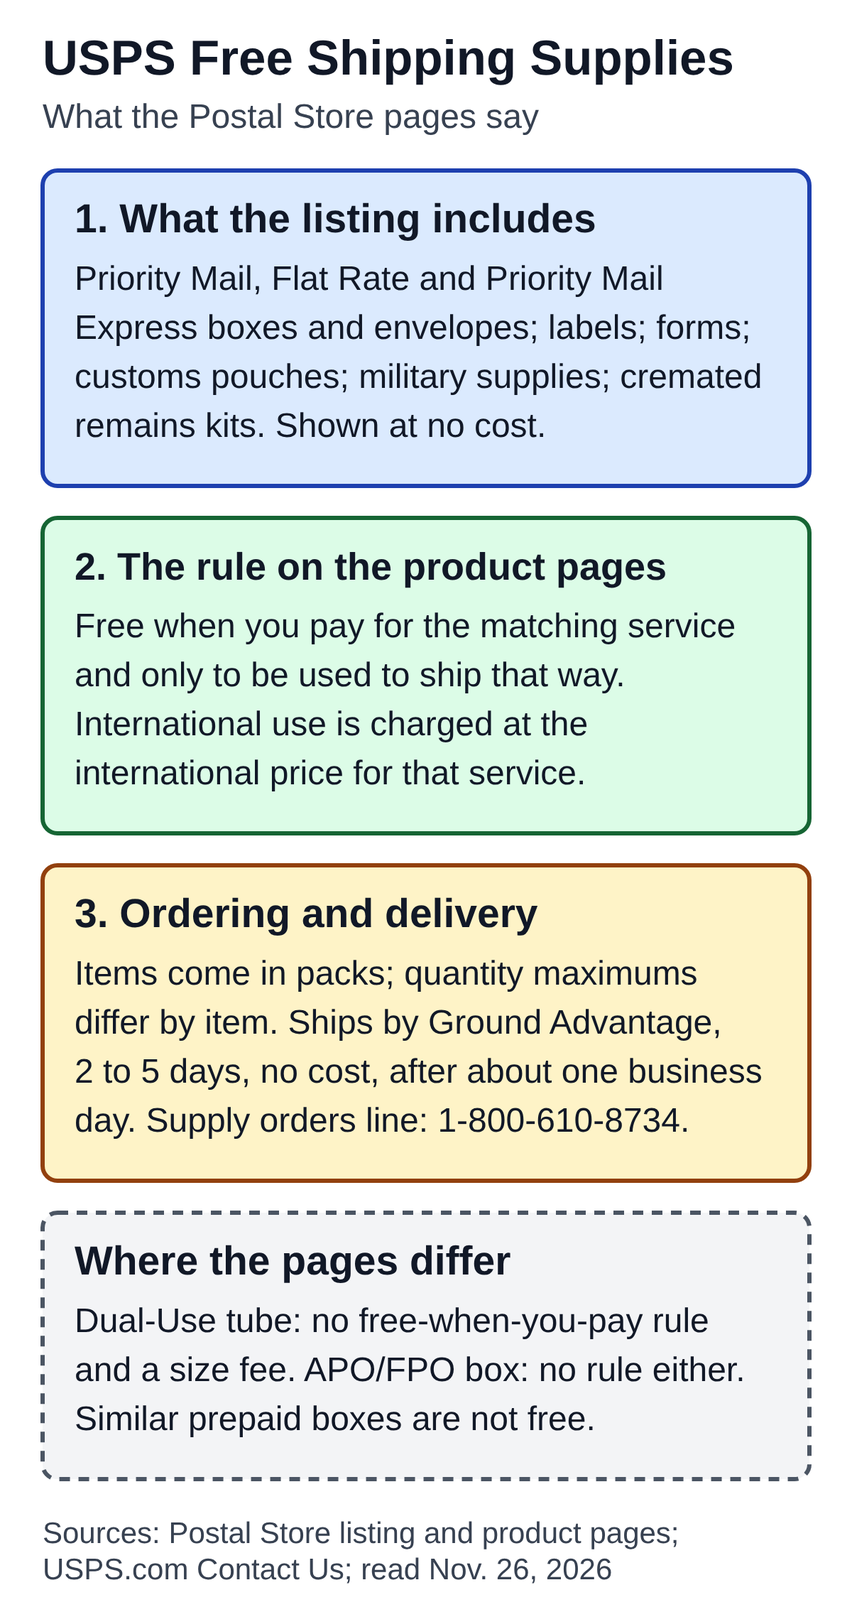
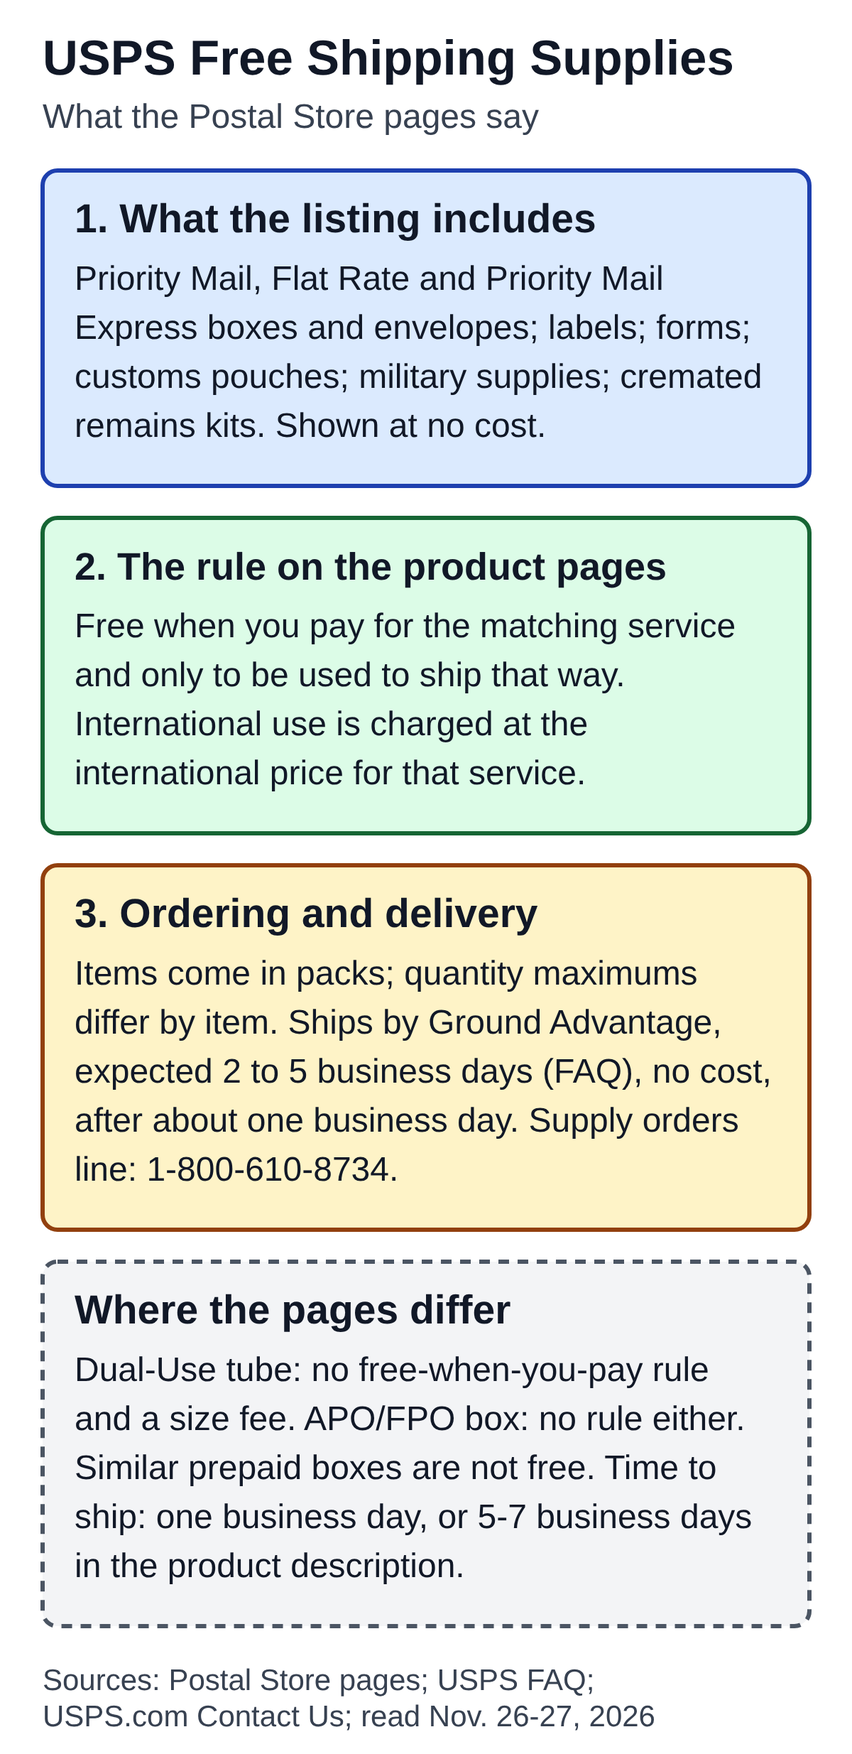
Free Boxes: business-days wording, FAQ source, per-product source links, time-to-ship difference (Gate 2 FIX)
Claude-Session: https://claude.ai/code/session_01BXtGEA3Qzg6u2ejRb8jbFU

diff --git a/content/drafts/usps-free-shipping-supplies-how-it-works.md b/content/drafts/usps-free-shipping-supplies-how-it-works.md
@@ -8,16 +8,16 @@ status: draft
 date: 2026-11-26
 internal_link_candidates: usps-package-pickup-how-it-works, usps-certified-mail-how-it-works, usps-registered-mail-how-it-works (all published or scheduled before this slot) and usps-customer-service-how-to-contact (third post, scheduled for 2026-11-28 9 AM KST, before this one); each appears once in the body with link text matching the title.
 image: assets/optimized/usps-free-shipping-supplies-how-it-works.png
-image_alt: "Diagram of what USPS Postal Store pages say about free shipping supplies. What is listed: Priority Mail, Priority Mail Flat Rate and Priority Mail Express boxes and envelopes, labels, forms, customs pouches, military supplies and cremated remains kits, shown at no cost. The rule: the packaging is free when you pay for the matching service and may only be used to ship that way; international use is charged at the international price. Ordering: items come in packs, quantity maximums differ by item, orders ship by Ground Advantage in 2 to 5 days at no cost after about one business day, and a separate phone line takes supply orders. The pages differ on the Dual-Use tube and the APO/FPO box, and similar prepaid boxes are not free."
+image_alt: "Diagram of what USPS Postal Store pages say about free shipping supplies. What is listed: Priority Mail, Priority Mail Flat Rate and Priority Mail Express boxes and envelopes, labels, forms, customs pouches, military supplies and cremated remains kits, shown at no cost. The rule: the packaging is free when you pay for the matching service and may only be used to ship that way; international use is charged at the international price. Ordering: items come in packs, quantity maximums differ by item, orders ship by Ground Advantage with an expected delivery of 2 to 5 business days at no cost, after about one business day, and a separate phone line takes supply orders. The pages differ on the Dual-Use tube, the APO/FPO box and shipping time, and similar prepaid boxes are not free."
 ---
 
 # USPS Free Boxes and Envelopes: What You Can Order and the Rules That Apply
 
 **The USPS Postal Store lists free Priority Mail and Priority Mail Express boxes and envelopes, plus free labels and forms, and its product pages say the packaging is free when you pay for the matching service and may only be used to ship that way.** The pages also describe how the supplies are shipped to you and give a separate phone line for ordering them. This article goes through what the pages list, the rules they state, and where they word things differently.
 
-This article uses the Postal Store "Free Shipping Supplies" listing (47 results when read, no update date shown), nine Postal Store product pages and the USPS.com "Contact Us" page (no update date shown), all read on November 26, 2026. Product pages show a price field and some state shipping or postage prices; this article gives no amounts. The product pages are individual store entries, not a policy page, so wording can change as items are added or retired.
+This article uses the Postal Store "Free Shipping Supplies" listing (47 results when read, no update date shown), nine Postal Store product pages, the USPS.com "Contact Us" page (no update date shown) and the USPS FAQ "Ordering Free Shipping Supplies" (Article 000007007, dated September 29, 2026), all read on November 26 and 27, 2026. Product pages show a price field and some state shipping or postage prices; this article gives no amounts. The product pages are individual store entries, not a policy page, so wording can change as items are added or retired.
 
-![Diagram of what USPS Postal Store pages say about free shipping supplies. What is listed: Priority Mail, Priority Mail Flat Rate and Priority Mail Express boxes and envelopes, labels, forms, customs pouches, military supplies and cremated remains kits, shown at no cost. The rule: the packaging is free when you pay for the matching service and may only be used to ship that way; international use is charged at the international price. Ordering: items come in packs, quantity maximums differ by item, orders ship by Ground Advantage in 2 to 5 days at no cost after about one business day, and a separate phone line takes supply orders. The pages differ on the Dual-Use tube and the APO/FPO box, and similar prepaid boxes are not free.](assets/optimized/usps-free-shipping-supplies-how-it-works.png)
+![Diagram of what USPS Postal Store pages say about free shipping supplies. What is listed: Priority Mail, Priority Mail Flat Rate and Priority Mail Express boxes and envelopes, labels, forms, customs pouches, military supplies and cremated remains kits, shown at no cost. The rule: the packaging is free when you pay for the matching service and may only be used to ship that way; international use is charged at the international price. Ordering: items come in packs, quantity maximums differ by item, orders ship by Ground Advantage with an expected delivery of 2 to 5 business days at no cost, after about one business day, and a separate phone line takes supply orders. The pages differ on the Dual-Use tube, the APO/FPO box and shipping time, and similar prepaid boxes are not free.](assets/optimized/usps-free-shipping-supplies-how-it-works.png)
 
 ## What the listing includes
 
@@ -41,12 +41,13 @@ The forms and labels are not packaging, and the pages read for them do not repea
 
 Each product page has a quantity field that shows a minimum and a maximum, and the maximums differ by item and by format. The pages do not give one overall limit.
 
-The Shipping & Returns text on the product pages says that in-stock orders ship with USPS Tracking, that you should allow one business day from order receipt for them to ship, and that free shipping is by USPS Ground Advantage arriving within 2 to 5 days depending on distance, at no cost to the customer. An expedited option by Priority Mail, arriving within 1 to 3 days, is offered for a fee whose amount this article does not give. The pages add that orders may ship from different distribution centers and may arrive separately, that every order carries a "Carrier - Leave if No Response" endorsement so the carrier can leave it if you are not home, and that you can see order status and tracking in your USPS.com account under Activity History. The Postal Store does not accept orders for shipment outside the United States but ships to APO, FPO and DPO addresses and U.S. territories.
+The Shipping & Returns text on the product pages says that in-stock orders ship with USPS Tracking, that you should allow one business day from order receipt for them to ship, and that free shipping is by USPS Ground Advantage, with delivery in 2 to 5 days depending on distance, at no cost to the customer. The USPS FAQ "Ordering Free Shipping Supplies" gives the same one-business-day shipping step and words the delivery as an expected 2 to 5 business days, so this article uses business days for that figure. Both pages describe an expedited option by Priority Mail, with an expected delivery of 1 to 3 business days according to the FAQ, for a fee whose amount this article does not give. The product description above those tabs adds a different line, which the "Where the pages differ" section covers. The pages add that orders may ship from different distribution centers and may arrive separately, that every order carries a "Carrier - Leave if No Response" endorsement so the carrier can leave it if you are not home, and that you can see order status and tracking in your USPS.com account under Activity History. The Postal Store does not accept orders for shipment outside the United States but ships to APO, FPO and DPO addresses and U.S. territories.
 
 The Contact Us page lists a phone line, 1-800-610-8734, "to order free shipping boxes, envelopes, and postal forms, or to report a problem with your shipping supply order." It gives Monday to Friday 7 AM to 11 PM Eastern Time and Saturday 7 AM to 6 PM Eastern Time. Our article [USPS Customer Service: How to Phone, Email or File a Complaint](https://statesideexplained.com/usps-customer-service-how-to-contact/) covers the other lines.
 
 ## Where the pages differ
 
+- **Time to ship.** The Shipping & Returns text and the FAQ say in-stock orders ship within one business day of the order. The product description says to allow 5 to 7 business days for in-stock items to be shipped, and also says Ground Advantage supplies ship within 2 to 5 business days. The FAQ gives an expected delivery of 2 to 5 business days after that shipping step, while the Shipping & Returns text says 2 to 5 days depending on distance. The pages do not reconcile these.
 - **The Dual-Use tube.** The Dual-Use Priority Mail / Priority Mail Express Small Tube Box page says the box can be used for either service. It does not carry the "how it works" sentence that ties the other boxes to one service, and it says the packaging is subject to the nonstandard fee because of its size. The page does not say which service's payment makes it free.
 - **The APO/FPO box.** The Priority Mail Flat Rate APO/FPO Box page also lacks the "free when you pay" sentence. It describes military shipping at domestic rates and mentions a discounted price for that box, which this article does not give.
 - **Similar boxes that are not free.** The comparison table on the Flat Rate Medium Box page lists prepaid versions of similar boxes with a box price, so a similar name does not mean the box is free.
@@ -57,8 +58,17 @@ They do not say whether you need a USPS.com account to place an order, whether t
 
 ## Sources
 
-All pages were read on November 26, 2026.
+All pages were read on November 26 and 27, 2026.
 
+- USPS, "Ordering Free Shipping Supplies," Article 000007007, dated September 29, 2026. https://faq.usps.com/s/article/Ordering-Free-Shipping-Supplies
 - USPS Postal Store, "Free Shipping Supplies" listing (no update date shown). https://store.usps.com/store/results/free-shipping-supplies/shipping-supplies/_/N-alnx4jZ7d0v8v
-- USPS Postal Store product pages: Priority Mail Flat Rate Medium Box, Priority Mail Poly Envelopes, Priority Mail Shoe Box, Cremated Remains Kit 1, Large Customs Declaration Form Pouch, Registered Mail Labels, Certified Mail Receipt Forms, Priority Mail Flat Rate APO/FPO Box and Dual-Use Priority Mail / Priority Mail Express Small Tube Box (no update dates shown). https://store.usps.com/store/results/free-shipping-supplies/shipping-supplies/_/N-alnx4jZ7d0v8v
+- Postal Store product page, Priority Mail Flat Rate Medium Box (no update date shown). https://store.usps.com/store/product/priority-mail-flat-rate-medium-box-P_O_FRB1
+- Postal Store product page, Priority Mail Poly Envelopes. https://store.usps.com/store/product/priority-mail-poly-envelopes-P_EP_14
+- Postal Store product page, Priority Mail Shoe Box. https://store.usps.com/store/product/priority-mail-shoe-box-P_0_SHOEBOX
+- Postal Store product page, Cremated Remains Kit 1. https://store.usps.com/store/product/cremated-remains-kit-1-P_BOX_CREKIT1
+- Postal Store product page, Large Customs Declaration Form Pouch. https://store.usps.com/store/product/large-customs-declaration-form-pouch-P_FORM_2976_E
+- Postal Store product page, Registered Mail Labels. https://store.usps.com/store/product/registered-mail-labels-P_LABEL200N
+- Postal Store product page, Certified Mail Receipt Forms. https://store.usps.com/store/product/certified-mail-receipt-forms-P_FORM_3800
+- Postal Store product page, Priority Mail Flat Rate APO/FPO Box. https://store.usps.com/store/product/priority-mail-flat-rate-apofpo-box-P_MILI_FRB
+- Postal Store product page, Dual-Use Priority Mail / Priority Mail Express Small Tube Box. https://store.usps.com/store/product/dual-use-priority-mailpriority-mail-express-small-tube-box-P_O_1098S
 - USPS, "Contact Us" (no update date shown). https://www.usps.com/help/contact-us.htm

diff --git a/docs/content-backlog.md b/docs/content-backlog.md
@@ -83,7 +83,7 @@ Pilot 12 plan: 12 published + 0 ready + 0 draft + 0 briefs = 12 slots, 4 per lan
 | 47 | `usps-change-of-address-how-it-works` | USPS Change of Address: How to File, Who Can File and What Happens Next | `usps change of address` | **scheduled 2026-11-27 09:00 KST** (WP post 184, media 183, status `future` re-read after saving; Gate 2 PASS after two FIX rounds (`3cf9bce`, `5ec4d21`); sources re-read 2026-11-26 with no change; editor 0 invalid blocks; 375 and 320 px checked; file moved to `content/ready/`; live QA after publication) | post-pilot (not counted) | Lane: postal service and stamps. First of four posts for 2026-11-27 and 2026-11-28 (slot 2026-11-27 9 AM KST). Sources: FAQ 000005313 (Oct 15, 2026), USPS.com Standard Forward Mail page (no date). Demand: relative Trends index only (highest of the surveyed USPS phrases), search volume not checked; see `docs/next-candidates-2026-11-26.md`. No prices or fees (both pages state the identity verification fee; not used). Two timing details shown without calling them conflicts (after Gate 2 round 1 FIX): the 7-10 days (after approval vs after the start date) and temporary forwarding periods. Three internal links (forwarding, Informed Delivery, Hold Mail). Re-read both sources right before publishing. |
 | 48 | `usps-money-order-how-it-works` | USPS Money Orders: How to Buy, Cash and Replace One | `usps money order` | **scheduled 2026-11-26** (Gate 1 done by Claude: FAQ 46 of 48 (2 phrase typos of mine), USPS.com page 31 of 31 and DMM 509.3 24 of 24 phrase checks, 3 image checks; Gate 2 round 1 = FIX (payee rules by DMM clause; no-receipt wording), fixed 2026-11-26, changed parts PASS; pre-publication re-read 2026-11-26 corrected the ID wording (FAQ: acceptable primary form of identification; USPS.com: primary photo ID) and "Form 6387", Gate 2 on that change PASS (`0bdda77`); built in WordPress as post 187 (media 186) and **scheduled for 2026-11-27 3 PM KST**, moved to ready; live QA due about 3:20 PM KST) | post-pilot (not counted) | Lane: postal service and stamps. Second of four posts for 2026-11-27 and 2026-11-28 (slot 2026-11-27 3 PM KST). Sources: FAQ 000006987 (Jun 10, 2026), USPS.com Sending Money Orders page (no date), DMM 509 section 3.0 (no date). **User instruction 2026-11-26: leave out the single-order limit amount**; the article also leaves out fees and every other amount. Demand: relative Trends index only (about 0.13 x the change-of-address phrase), search volume not checked. Differences shown: traveler's checks; one payee (DMM 3.2.4) or several (3.3.5); refund and replacement timing; where to buy. One internal link (claims). Re-read all three sources right before publishing. |
 | 49 | `usps-customer-service-how-to-contact` | USPS Customer Service: How to Phone, Email or File a Complaint | `usps customer service` | **draft 2026-11-26** (Gate 1 done by Claude: USPS.com Contact Us 34 of 34, Email Us 18 of 18, USAGov 22 of 23 (1 phrase typo of mine) phrase checks, 3 image checks; Gate 2 round 1 = FIX (the "Where the pages differ" section presented routes as source conflicts), fixed 2026-11-26, waiting for Gate 2 on the changed parts; not moved to ready; nothing built in WordPress) | post-pilot (not counted) | Lane: postal service and stamps. **Replaces USPS Insurance** in the third slot (2026-11-28 9 AM KST): the Insurance pages are mostly amounts and overlap the claims and Priority Mail vs Ground Advantage posts; reported to the user on 2026-11-26. Sources: USPS.com Contact Us (no date), USPS Email Us (no date), USAGov complaint page (updated Sep 4, 2026). Demand: relative Trends index only (about 0.62 x the change-of-address phrase), search volume not checked. No prices or fees; phone numbers and hours dated. Section "Which route fits which problem" (routes grouped by problem, no claimed source conflicts). Two internal links (tracking status, missing mail search). Re-read all three sources right before publishing (numbers and hours can change). |
-| 50 | `usps-free-shipping-supplies-how-it-works` | USPS Free Boxes and Envelopes: What You Can Order and the Rules That Apply | `usps free boxes` | **draft 2026-11-26** (Gate 1 done by Claude: Postal Store listing 29 of 29, nine product pages 54 of 54, Contact Us supply line 4 of 4 phrase checks, 3 image checks; waiting for Gate 2; not moved to ready; nothing built in WordPress) | post-pilot (not counted) | Lane: postal service and stamps. Fourth of four posts for 2026-11-27 and 2026-11-28 (slot 2026-11-28 3 PM KST). Sources: Postal Store Free Shipping Supplies listing and nine product pages (no update dates), USPS.com Contact Us (no date). Demand: relative Trends index only (about 0.07 x the change-of-address phrase), search volume not checked. No prices, fees or insurance amounts. Differences shown: Dual-Use tube, APO/FPO box, similar prepaid boxes that are not free. Four internal links (package pickup, certified mail, registered mail, customer service); the customer-service post must be public first. Re-read all sources right before publishing (stock and maximums change). |
+| 50 | `usps-free-shipping-supplies-how-it-works` | USPS Free Boxes and Envelopes: What You Can Order and the Rules That Apply | `usps free boxes` | **draft 2026-11-26** (Gate 1 done by Claude: Postal Store listing 29 of 29, nine product pages 54 of 54, Contact Us supply line 4 of 4 phrase checks, 3 image checks; Gate 2 round 1 = FIX (business days wording; product-page source links), fixed 2026-11-27 after re-reading the FAQ and the nine pages (a time-to-ship difference was added), waiting for Gate 2 on the changed parts; not moved to ready; nothing built in WordPress) | post-pilot (not counted) | Lane: postal service and stamps. Fourth of four posts for 2026-11-27 and 2026-11-28 (slot 2026-11-28 3 PM KST). Sources: Postal Store Free Shipping Supplies listing and nine product pages (no update dates), USPS.com Contact Us (no date). Demand: relative Trends index only (about 0.07 x the change-of-address phrase), search volume not checked. No prices, fees or insurance amounts. Differences shown: Dual-Use tube, APO/FPO box, similar prepaid boxes that are not free. Four internal links (package pickup, certified mail, registered mail, customer service); the customer-service post must be public first. Re-read all sources right before publishing (stock and maximums change). |
 
 ## Rejected
 

diff --git a/editorial/qa/usps-free-shipping-supplies-how-it-works.md b/editorial/qa/usps-free-shipping-supplies-how-it-works.md
@@ -1,8 +1,8 @@
 # QA — USPS Free Boxes and Envelopes
 
-Article: `content/drafts/usps-free-shipping-supplies-how-it-works.md` (draft, 2026-11-26, about 1,300 words including sources, one H1, Sources included; meta description 143 characters; alt text 735 characters).
+Article: `content/drafts/usps-free-shipping-supplies-how-it-works.md` (draft, 2026-11-26, about 1,400 words including sources, one H1, Sources included; meta description 143 characters; alt text 786 characters).
 
-Stage: draft. Gate 1 (Claude) run on 2026-11-26. Gate 2 not yet run. Backlog row 50.
+Stage: draft. Gate 1 (Claude) run on 2026-11-26. Gate 2 round 1 = FIX (two points, fixed 2026-11-27, see below); waiting for Gate 2 on the changed parts. Backlog row 50.
 
 ## Gate 1 — claim groups
 - Listing (3 pages): 29 of 29; nine product pages: 54 of 54 (with the absence checks above); Contact Us supply line: 4 of 4. Total 87 of 87.
@@ -10,12 +10,17 @@ Stage: draft. Gate 1 (Claude) run on 2026-11-26. Gate 2 not yet run. Backlog row
 - Link text matches the live titles of `usps-package-pickup-how-it-works`, `usps-certified-mail-how-it-works`, `usps-registered-mail-how-it-works` and, once live, `usps-customer-service-how-to-contact`. **Link order:** the customer-service post (2026-11-28 9 AM KST) must be public before this post (3 PM KST) or the link returns 404; the Registered Mail post publishes 2026-11-26 3 PM KST.
 
 ## Where the pages differ (shown in the article, not resolved)
+- Time to ship (added in the Gate 2 fix): one business day (Shipping & Returns text and FAQ) vs 5 to 7 business days (product description).
 - Dual-Use tube: either service, no free-when-you-pay sentence, nonstandard fee for size.
 - APO/FPO box: no free-when-you-pay sentence; describes domestic-rate military shipping.
 - Similar prepaid boxes in the comparison table carry a box price, so are not free.
 
+## Gate 2 round 1 — FIX and what changed
+Gate 2 asked for (1) "business days" on the delivery time: the USPS FAQ "Ordering Free Shipping Supplies" says business days; and (2) real product-page links in the sources, since the source list named nine product pages but linked only the listing.
+Fix and re-read (2026-11-27 KST): the FAQ (Article 000007007, dated Sep 29, 2026) was read: orders ship within one business day by Ground Advantage with an expected delivery of 2-5 business days at no cost; Priority Mail for a fee, expected 1-3 business days; same supply-line number and hours as the Contact Us page. The nine product pages were fetched again; all returned 200 and all carry the same three timing statements: Shipping & Returns "allow one business day ... to be shipped" and Ground Advantage "arriving within 2 - 5 days based on distance" (no "business"); the product description "Please allow 5-7 business days for in-stock items to be shipped" and "ship within 2-5 business days". The article now (a) uses "expected 2 to 5 business days" for delivery, attributed to the FAQ, and says the Shipping & Returns text words it as days depending on distance; (b) adds a "Time to ship" bullet in "Where the pages differ" (one business day vs 5 to 7 business days; the pages do not reconcile them); (c) lists the FAQ as a source and gives each of the nine product pages its own link in the Sources list (URLs taken from the listing pages and fetched). Diagram card 3 reads "expected 2 to 5 business days (FAQ)"; card 4 has the time-to-ship line; footer names the FAQ; alt text updated (front matter and Markdown alt text identical). No dollar or percent sign.
+
 ## Image checks
-PNG 1200 x 2262 px, 424,091 bytes, SHA-256 prefix `23f66cba07ca29d1`; SVG after removing the C2PA metadata block; md 10,328 bytes, `7e3759f610e3a0db`; C2PA `caBX` chunk removed from the PNG (pixel data hash unchanged). The rendering script printed no text past the right margin; the PNG was viewed. Diagram text only repeats facts from the article; alt text matches the front matter and the Markdown alt text.
+PNG 1200 x 2469 px, 466246 bytes, SHA-256 prefix `3a66374d9186423b`; SVG 4553 bytes after removing the C2PA metadata block; md 12,400 bytes, `5692547a8752cfb8` (after the Gate 2 fix; before: PNG 2262 px `23f66cba07ca29d1`, md 10,328 bytes `7e3759f610e3a0db`); C2PA `caBX` chunk removed from the PNG (pixel data hash unchanged). The rendering script printed no text past the right margin; the PNG was viewed. Diagram text only repeats facts from the article; alt text matches the front matter and the Markdown alt text.
 
 ## Not checked
 Search volume; the other 38 listed items; stock and quantity maximums on the day of publication (re-read right before publishing); WordPress (no draft or schedule exists); mobile and editor checks (after Gate 2 PASS).

diff --git a/docs/decision-log.md b/docs/decision-log.md
@@ -1686,3 +1686,7 @@ Gate 2 passed the changed parts of `0bdda77`. The three sources were re-read (th
 ## 2026-11-26 (KST) — Customer Service: Gate 2 round 1 FIX applied
 
 Gate 2 said the "Where the pages differ" section framed ordinary alternative routes as source conflicts (for example "TTY: 711" and the 7-1-1 relay description are not conflicting rules; tracking has an Email Us topic and a phone line as different intake routes; USAGov splits theft by USPS staff from theft or fraud by outsiders). The section, introduction sentence, meta description, diagram card and alt text now group the routes by problem ("Which route fits which problem") and no longer call anything a difference between pages. The USAGov page was re-read to confirm the wording. Not built in WordPress or scheduled until Gate 2 checks the changed parts; the slot stays 2026-11-28 9 AM KST. Free Boxes (3 PM KST) still awaits Gate 2.
+
+## 2026-11-27 (KST) — Free Boxes: Gate 2 round 1 FIX applied; Customer Service changed parts PASS
+
+Gate 2 passed the changed parts of Customer Service (`bdf12d7`) and asked for two fixes in Free Boxes: "business days" on the 2 to 5 day delivery time, and real product-page links in the sources. The USPS FAQ "Ordering Free Shipping Supplies" (September 29, 2026) was read and added as a source: expected delivery 2-5 business days after shipping within one business day. Re-fetching the nine product pages showed they word timing three ways (Shipping & Returns: one business day to ship, 2 - 5 days based on distance; description: 5-7 business days to ship, 2-5 business days), so the article keeps the FAQ's "expected 2 to 5 business days" for delivery and states the shipping-time difference in "Where the pages differ" without reconciling it. The Sources list now links all nine product pages. Not built in WordPress or scheduled until Gate 2 checks the changed parts; the slot stays 2026-11-28 3 PM KST, after the Customer Service post is public.
